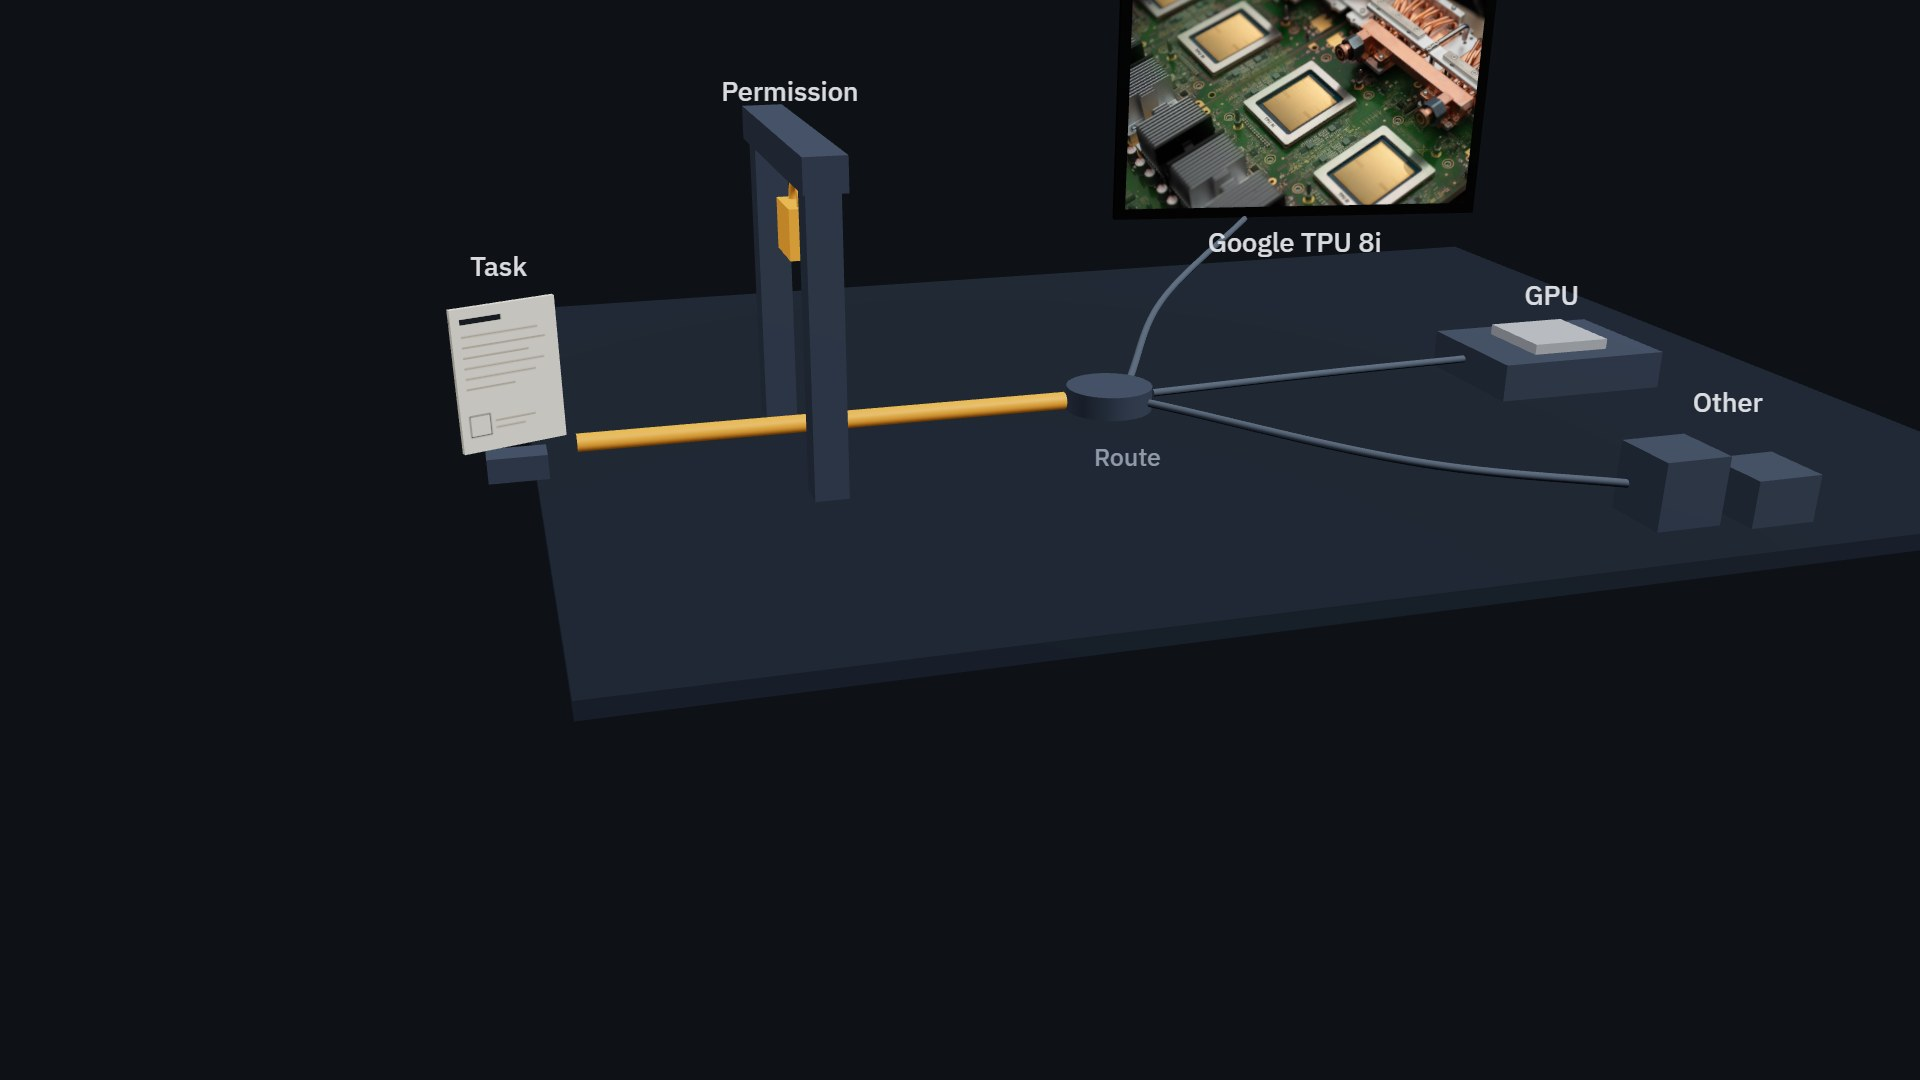
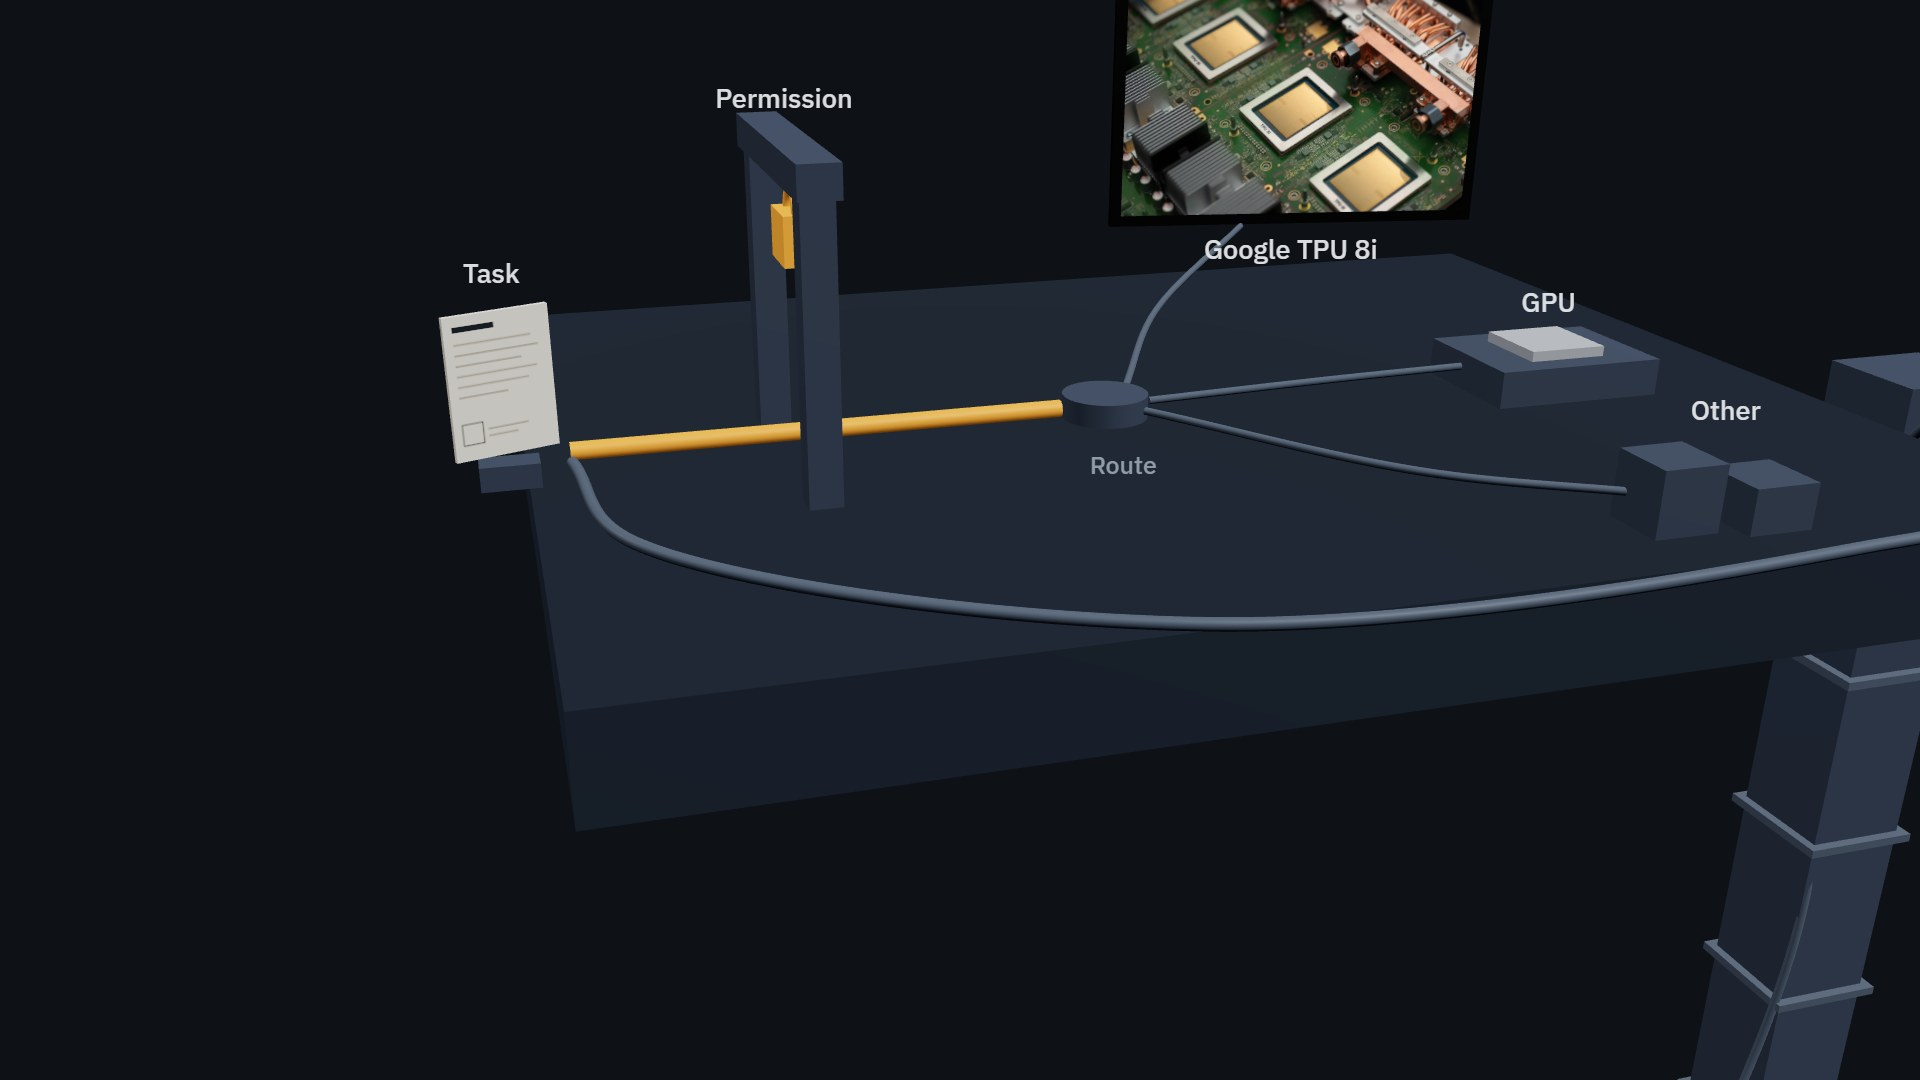
Record QA-002 fix: production evidence, refreshed screenshots, READY_FOR_QA

diff --git a/WORKFLOW_STATUS.md b/WORKFLOW_STATUS.md
@@ -4,16 +4,16 @@
 - **Working branch:** [`agent-bot-ai-supply-chain-2026`](https://github.com/Akkhadat12/AI-Agent-Bot/tree/agent-bot-ai-supply-chain-2026)
 - **Approved scope:** AI value chain and upstream infrastructure: chips, HBM, cloud, networks, data centres, and electricity.
 - **Approved thesis:** Will verified completed agent work grow faster than full cost per task falls? Supporting lens: who controls task intake, data, permissions, and routing?
-- **Stage:** `QA_FAIL` (retest) — QA-001 passed on the revised production deployment, but QA found new [QA-002](07_WEB_QA_REPORT.md#qa-002--s5s6-camera-passes-under-the-s6-platform-and-obscures-the-transition) on 29 September 2026.
+- **Stage:** `READY_FOR_QA` (retest) — QA-002 fix deployed on 30 September 2026. QA-001 remains closed.
 - **Research cut-off:** 29 September 2026.
-- **Last verified handoff content commit:** research [`ffe39f7`](https://github.com/Akkhadat12/AI-Agent-Bot/commit/ffe39f7); build and docs [`1020f38`](https://github.com/Akkhadat12/AI-Agent-Bot/commit/1020f38); this status update is the Build → QA handoff marker.
-- **Current public build URL:** https://agent-task-cost-2026.vercel.app (Vercel production `dpl_GqwkRKjoN5FBN8WqNBCXz5z5CHTB`, deployed from commit `c10af1f`, `web/`).
+- **Last verified handoff content commit:** research [`ffe39f7`](https://github.com/Akkhadat12/AI-Agent-Bot/commit/ffe39f7); build [`83a0334`](https://github.com/Akkhadat12/AI-Agent-Bot/commit/83a0334) (QA-002 fix, deployed); this status update is the Build → QA handoff marker.
+- **Current public build URL:** https://agent-task-cost-2026.vercel.app (Vercel production deployed 30 September 2026 from commit `83a0334`, `web/`, bundle `index-BIsiB2fS.js`).
 - **Build record:** [BUILD_NOTES.md](BUILD_NOTES.md) · published screenshots in [docs/screenshots/](docs/screenshots/) · Thai scene rationale: [06_SCENE_RATIONALE (Google Doc)](https://docs.google.com/document/d/1XW-nIOzjQMfFJXRVvyGaUOGbS5YXT0O1u3RhU6THfs4/edit).
 - **QA report and independent production evidence:** [07_WEB_QA_REPORT.md](07_WEB_QA_REPORT.md) · [docs/qa-evidence/](docs/qa-evidence/).
 - **Owner Drive folder:** [reading PDFs and future scene rationale](https://drive.google.com/drive/folders/1CBG-OOusgdXWSvLjtT3cMSCJx0yCTYU9).
 - **Current planning package:** [01 MD](01_KNOWLEDGE_SUMMARY.md) · [01 PDF](01_KNOWLEDGE_SUMMARY.pdf) · [02 MD](02_RESEARCH_AND_ANALYSIS.md) · [02 PDF](02_RESEARCH_AND_ANALYSIS.pdf) · [03 story](03_STORY_STRUCTURE.md) · [04 build](04_BUILD_WEB.md) · [05 QA](05_QA.md) · [references](references/).
-- **Next actor and exact action:** **Next: Build** (Claude Code). Fix QA-002: the S5→S6 camera goes below the S6 platform, causing a near-black occluded frame in normal and reduced motion. Keep the verified QA-001 chart/label fade. Redeploy production, update `BUILD_NOTES.md` and affected rationale/evidence, then set `READY_FOR_QA` with the new URL/deployed commit. QA will retest the transition and full route.
-- **Open findings/blockers:** **QA-002** (medium, S5→S6 camera/platform occlusion) is open; [independent production frames and requested correction](07_WEB_QA_REPORT.md#qa-002--s5s6-camera-passes-under-the-s6-platform-and-obscures-the-transition). **QA-001 closed** after retest at 1920×1080, 1280×720 and reduced motion. Interaction regression passed 51/51 checks.
+- **Next actor and exact action:** **Next: QA** (Codex). Retest [QA-002](07_WEB_QA_REPORT.md#qa-002--s5s6-camera-passes-under-the-s6-platform-and-obscures-the-transition): S5→S6 at 1.1–1.8 s (normal) and 200–500 ms (reduced), at 1920×1080 and 1280×720, plus the full route. Build evidence: [docs/qa-fix/QA-002/](docs/qa-fix/QA-002/). Known gap: the Thai scene rationale Doc still has the old S6 screenshot.
+- **Open findings/blockers:** **QA-002** fix awaiting QA retest. **QA-001 closed.** Build-side interaction regression passed 51/51 on production.
 
 ## Old assignment boundary
 

diff --git a/BUILD_NOTES.md b/BUILD_NOTES.md
@@ -5,8 +5,8 @@
 | Item | Value |
 |---|---|
 | Public production URL | **https://agent-task-cost-2026.vercel.app** |
-| Deployment | Vercel production `dpl_GqwkRKjoN5FBN8WqNBCXz5z5CHTB`, READY, 29 September 2026 (QA-001 fix). The first deployment was `dpl_2GKJ2FM93uUXZrrxK9at26w5UW6X` from `1d8c17c` |
-| Source branch / deployed commit | `agent-bot-ai-supply-chain-2026` @ **`c10af1f`**. The `web/` app was deployed from this commit with `vercel deploy --prod`; later commits change docs only |
+| Deployment | Vercel production, READY, 30 September 2026 (QA-002 fix), aliased to the URL above. Earlier: `dpl_GqwkRKjoN5FBN8WqNBCXz5z5CHTB` (QA-001 fix) and `dpl_2GKJ2FM93uUXZrrxK9at26w5UW6X` (`1d8c17c`) |
+| Source branch / deployed commit | `agent-bot-ai-supply-chain-2026` @ **`83a0334`**. The `web/` app was deployed from this commit with `vercel deploy --prod`; the production bundle is `index-BIsiB2fS.js`, identical to a local clean build. Later commits change docs only |
 | Vercel project | `agent-task-cost-2026` (CLI deploy, not Git-linked; redeploy from `web/` with `npx vercel deploy --prod`) |
 | Builder | Claude Code (Build agent) |
 | Scene rationale (Thai) | [`06_SCENE_RATIONALE` Google Doc](https://docs.google.com/document/d/1XW-nIOzjQMfFJXRVvyGaUOGbS5YXT0O1u3RhU6THfs4/edit) in the owner Drive folder. Rebuilt after QA-001 with post-fix production screenshots: 8 scenes, the palette comparison, and 2 QA-001 departure frames. The earlier version is in Drive trash |
@@ -129,6 +129,16 @@ A mouse click could start a transition with a `requestAnimationFrame` timestamp 
   - The bars fade in the same frames.
   - Reproduce with `node web/scripts/departure.mjs <url> <dir> 5 1280 720 [--reduced]`.
 - **Regression:** `interact.mjs` on production gives 51 PASS, 0 FAIL. The full route was re-captured at 1920×1080 into [docs/screenshots/](docs/screenshots/). Settled scenes are unchanged except the slightly lighter S6 platform.
+
+### QA-002: S5 → S6 camera passed under the S6 platform (fixed in `83a0334`)
+
+- **Cause:** the camera rose straight through the space under the S6 platform, so its unlit underside filled the frame (about 1.4 s in normal motion, 350 ms in reduced motion). The QA-001 glow did not help.
+- **Fix** (`web/src/main.js`):
+  - The camera stays in front of the platform (`VIA.S6`) and rises above its height before turning to the gate. A `TARGET_VIA` look-at path follows the grid line up the pylon and across the platform top.
+  - The platform is thicker, with a support tower under its front corner. An accent-coloured riser climbs the tower to the gate, so the ascent always has a subject. It fades to a neutral trace once the task reaches the gate. The E0 trace passes along the same route.
+  - Reduced motion keeps this unobstructed path (`RM_KEEPS_PATH`), only faster.
+- **Verification:** local dense scan (`web/scripts/scan.mjs`, a frame every ~70 ms, checked with `blank.py`) showed no dark or occluded frame in either motion mode. On production, `departure.mjs` frames at 150–1800 ms (1920×1080, 1280×720) and 80–500 ms (reduced) are in [docs/qa-fix/QA-002/](docs/qa-fix/QA-002/), with `labels-*.txt`. The QA-001 label fade is unchanged (0.47 at 900 ms, gone by 1.1 s). `interact.mjs` on production: 51 PASS, 0 FAIL. The full route was re-captured into [docs/screenshots/](docs/screenshots/).
+- **Not yet refreshed:** the Thai `06_SCENE_RATIONALE` Google Doc still shows the pre-QA-002 S6 screenshot (S6 platform is thicker, with a tower). Wording is unaffected.
 
 ## Known limits
 
